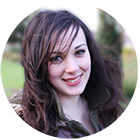
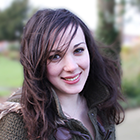
added case studies page

diff --git a/source/stylesheets/partials/_footer.sass b/source/stylesheets/partials/_footer.sass
@@ -10,6 +10,7 @@ body > footer
       margin-right: 20px
       img
         width: 140px
+        border-radius: 50%
     .footer-about
       max-width: 459px
       float: left
